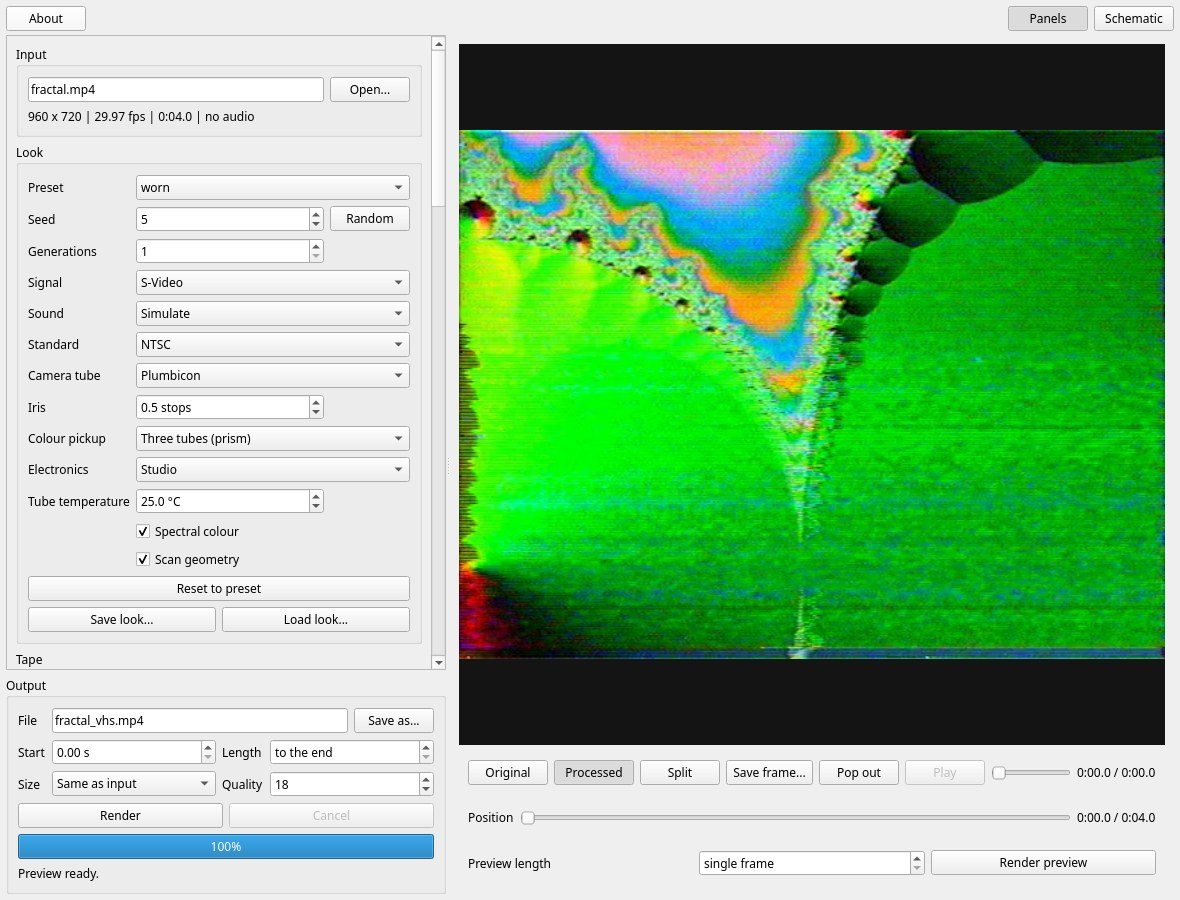
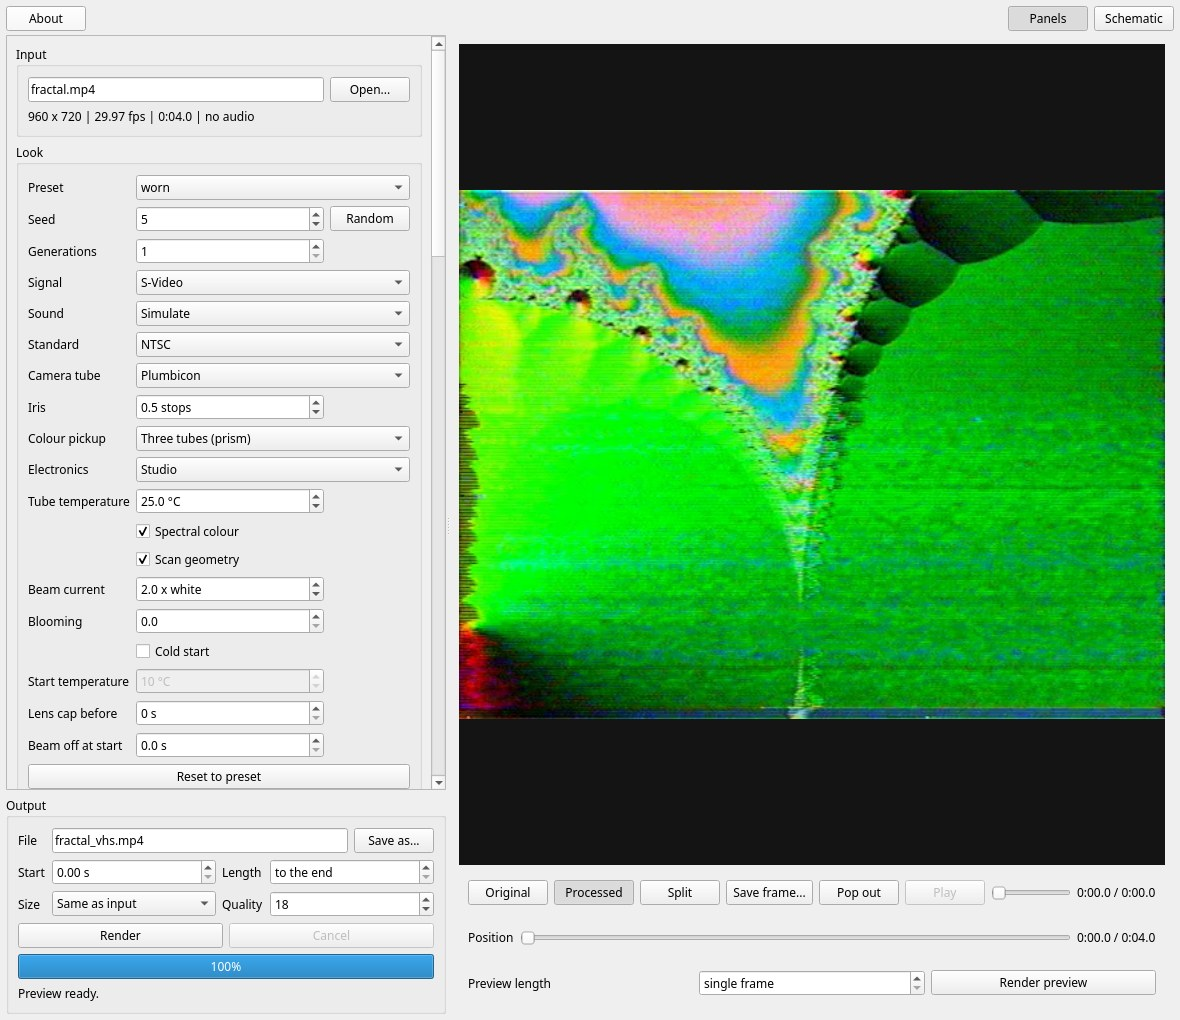
Docs: the lens cap and beam-off settings, the window pictures retaken

Changed region(s): [[0.0, 0.0, 1.0, 0.9956], [0.3661, 0.0, 1.0, 0.0622], [0.2746, 0.0622, 0.3356, 0.1244]]

diff --git a/scripts/screenshots.py b/scripts/screenshots.py
@@ -96,7 +96,7 @@ def schematic_page(app: QApplication, window: MainWindow, page: str, out: Path) 
     )
     app.processEvents()
     if (view.width(), view.height()) != SCHEMATIC_SIZE:
-        sys.exit(f"the {page} page is {view.width()}x{view.height()}, not {SCHEMATIC_SIZE[0]}x{SCHEMATIC_SIZE[1]}")
+        sys.exit(f"the {page} page is {view.width()}x{view.height()} and must be {SCHEMATIC_SIZE[0]}x{SCHEMATIC_SIZE[1]}")
     view.skip_boot()
     app.processEvents()
     save_jpeg(view.grab().toImage(), out)

diff --git a/README.md b/README.md
@@ -175,9 +175,9 @@ right:
 * **Settings**: choose the input video, preset, and seed; set the generations,
   the signal, the sound and the television standard; set up the camera (tube, iris, colour
   pickup, electronics, tube temperature, spectral colour, scan geometry, beam
-  current, blooming, and a cold start with its start temperature; the settings
-  after the tube are inert while the tube is off, and the start temperature works
-  only while the cold start is on); adjust the
+  current, blooming, a cold start with its start temperature, the lens cap before
+  the shot and the beam off at its start; the settings after the tube are inert while
+  the tube is off, and the start temperature works only while the cold start is on); adjust the
   condition controls across Tape, Heads and drum, Playback deck, Transport and
   tracking, Recording deck and the outside world ("Reset to preset" restores
   them); an Advanced box accepts raw TOML overrides (such as `[tape]` /
@@ -205,8 +205,8 @@ The same controls can be shown as a phosphor-green electrical drawing: the **Sch
 mode bar replaces the settings column by a drawing of the deck, the cassette and the TV, every control
 a labelled line with its value (drag a value, scroll over it, or click it and type). Three pages
 share the schematic view (**Camera**, **Circuit**, **Outside**): **Camera** draws the camera ahead
-of the recorder (`lens` with `IRIS`, `split` with `LAYOUT` and `SPECTRAL COLOUR`, `tubes` with
-`TUBE`, `TUBE TEMP`, `SCAN GEOMETRY`, `BEAM`, `BLOOMING`, `COLD START` and `START TEMP`, `head_amp`,
+of the recorder (`lens` with `IRIS` and `LENS CAP`, `split` with `LAYOUT` and `SPECTRAL COLOUR`, `tubes` with
+`TUBE`, `TUBE TEMP`, `SCAN GEOMETRY`, `BEAM`, `BLOOMING`, `COLD START`, `START TEMP` and `BEAM OFF`, `head_amp`,
 `processing` with `ELECTRONICS`, `encoder` and the `tv` preview; the `split` and `tubes` drawings
 switch between `three-tube` and `stripe`, and the other camera lines dim and are inert while
 `TUBE` is `off`; `START TEMP` works only while `COLD START` is on), **Circuit** draws the recorder
@@ -326,9 +326,11 @@ The rest of the camera, each a flag and a config key (`docs/CAMERA.md`, "Using i
   shading, veiling glare, halation, and corner focus, with the studio camera's correctors.
 * **Retention**: held charge in lead oxide and the Saticon (more lag at high key, sticking after an overload), reversible
   burn on a vidicon, and warm-up of a cold tube. They all happen on the target, as charge, and nothing is applied to the
-  picture after the scan. In a config file, `idle_s` caps the lens with the beam on before the first frame, and
-  `beam_off_s` holds the beam off with the lens open for the start of the shot (a Saticon burns in, a lead-oxide
-  burn is erased).
+  picture after the scan. `--camera-idle SECONDS` (config key `idle_s`) caps the lens with the beam on before the
+  first frame, so a cold camera warms under the cap, and `--camera-beam-off SECONDS` (config key `beam_off_s`)
+  holds the beam off with the lens open for the start of the shot (a Saticon burns in, a lead-oxide burn is erased).
+  The window has both in Settings ("Lens cap before", "Beam off at start") and on the camera page (`LENS CAP`,
+  `BEAM OFF`).
 
 ```sh
 vhsphys run in.mp4 out.mp4 --preset good --camera-tube plumbicon --iris-stops 3

diff --git a/docs/CAMERA.md b/docs/CAMERA.md
@@ -705,10 +705,10 @@ within `3 %` at `0`, `WARM_UP_S` and `2 * WARM_UP_S`, and `50 ms` `200 nA` lag s
 `10 %` of the steady tube at `T(t)` with cold lag `>= 1.2x` warm lag.
 
 The same sequence is available as settings (`tests/camera_switch_on.rs`; `docs/design/CAMERA_RETENTION.md`,
-"Switching on as camera settings"). `CameraParams::idle_s` (config key `idle_s`, default `0`) is the
+"Switching on as camera settings"). `CameraParams::idle_s` (config key `idle_s`, flag `--camera-idle`, default `0`) is the
 lens-capped time with the beam on before the first frame: `CameraTube::seeded` ends with `idle(idle_s)`,
 after the dark settle and the cold offset, so a cold camera warms under the cap. `beam_off_s` (config key
-`beam_off_s`, default `0`) holds the beam off with the lens open for the first
+`beam_off_s`, flag `--camera-beam-off`, default `0`) holds the beam off with the lens open for the first
 `round(beam_off_s * FRAME_RATE)` frames of the shot: the targets store the scene unread, and the read of
 the first frame with the beam on lands what built up. A negative or non-finite value of either counts as
 `0`, and a hand call of `set_beam_on` cancels a pending switch-on.

diff --git a/docs/PERFORMANCE.md b/docs/PERFORMANCE.md
@@ -2,7 +2,7 @@
 
 Measured on 8 cores with the `worn` preset: about 12-14 fps on the 754x480 core raster
 (0.5 CPU-seconds per frame, ffmpeg included). Generations multiply the cost: 2 are about 8 fps,
-3 about 6 fps. Real time (29.97 fps) is not reached; the picture model is the cost, not the I/O. A camera tube is slower still
+3 about 6 fps. Real time (29.97 fps) is not reached; the time goes into the picture model, and the I/O costs little. A camera tube is slower still
 (see "The camera" below): about 2 fps with a Plumbicon.
 
 ## Where the time goes
